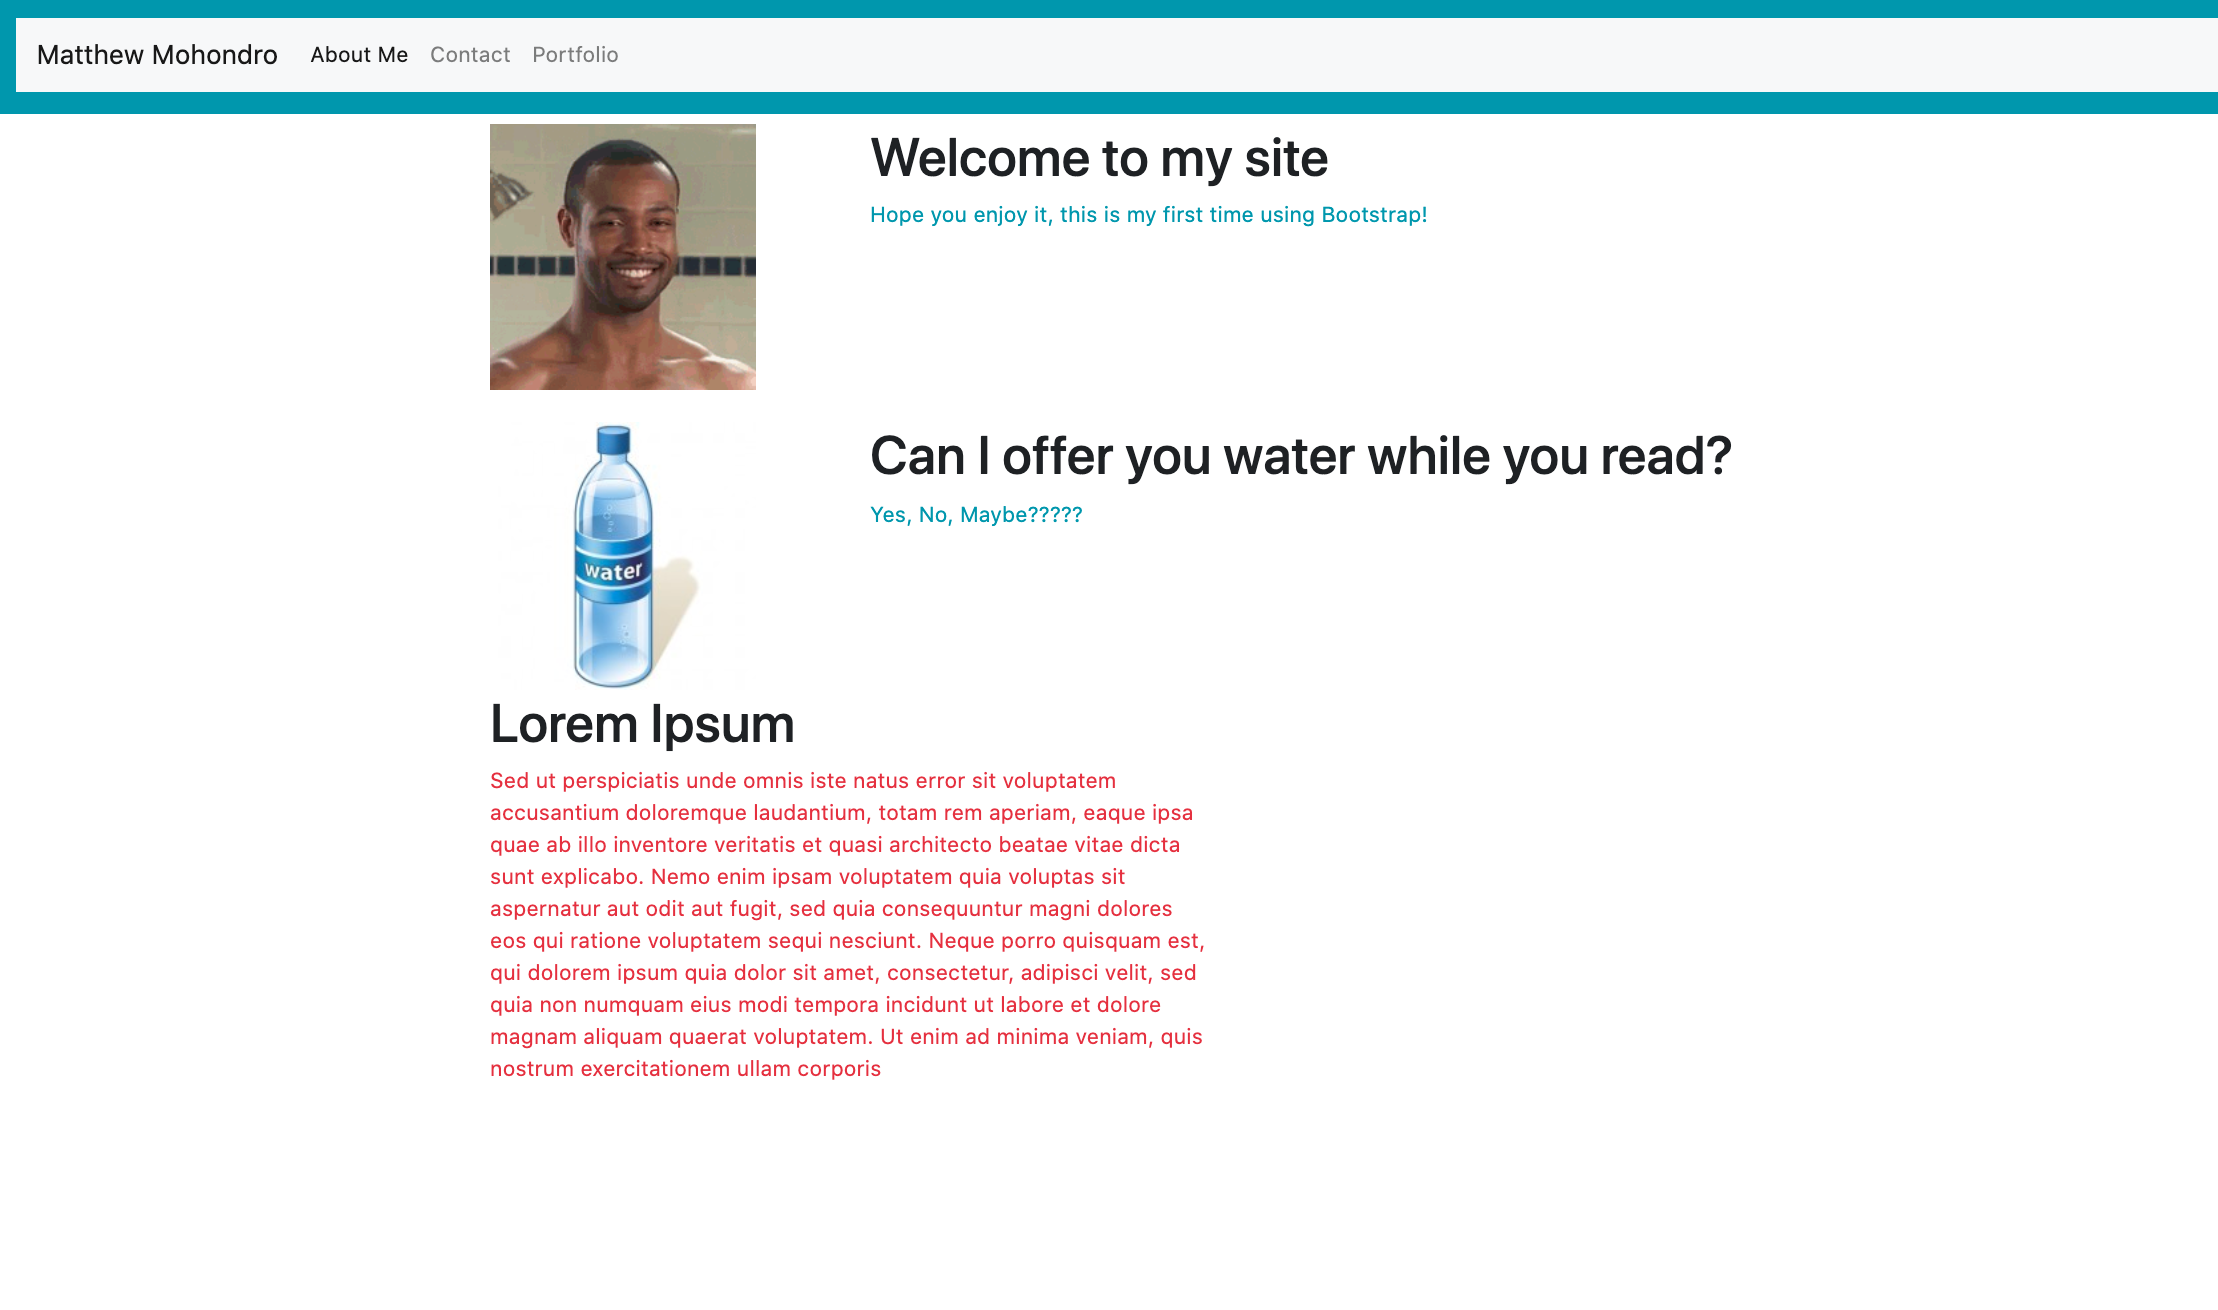
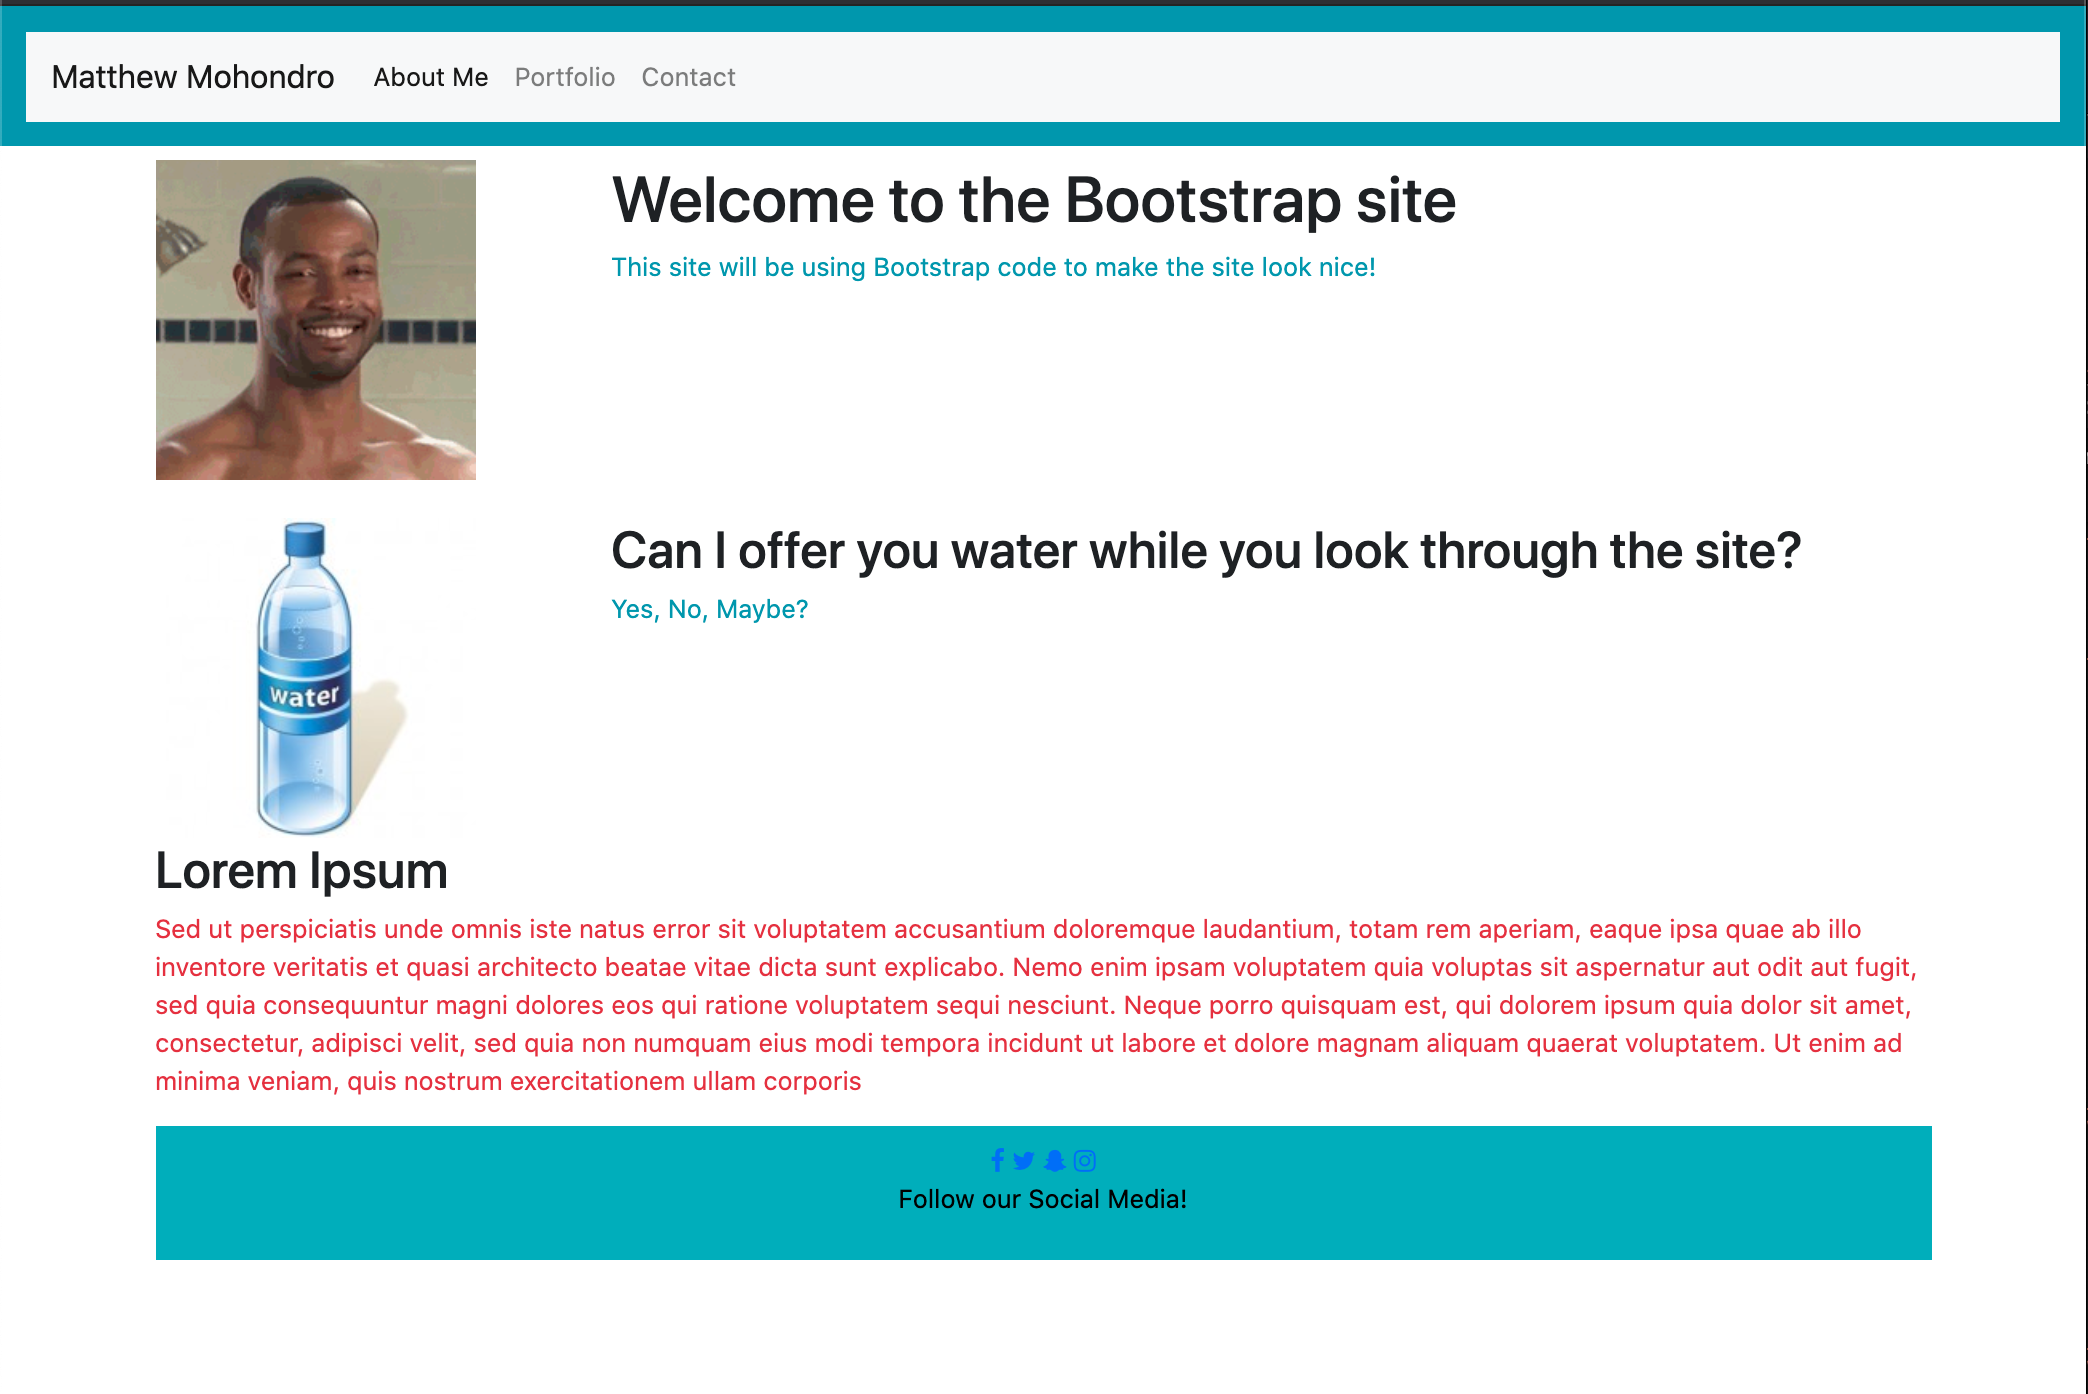
made some changes to files

Changed region(s): [[0.0, 0.0, 1.0, 1.0]]

diff --git a/contact.html b/contact.html
@@ -8,6 +8,8 @@
     <!-- Bootstrap CSS -->
     <link rel="stylesheet" href="https://stackpath.bootstrapcdn.com/bootstrap/4.5.0/css/bootstrap.min.css" integrity="sha384-9aIt2nRpC12Uk9gS9baDl411NQApFmC26EwAOH8WgZl5MYYxFfc+NcPb1dKGj7Sk" crossorigin="anonymous">
 
+    <link rel="stylesheet" href="https://stackpath.bootstrapcdn.com/font-awesome/4.7.0/css/font-awesome.min.css">
+
     <title>Bootstrap</title>
   </head>
   <body>
@@ -23,20 +25,15 @@
               <a class="nav-link" href="index.html">About Me <span class="sr-only">(current)</span></a>
             </li>
             <li class="nav-item">
-              <a class="nav-link" href="contact.html">Contact</a>
+              <a class="nav-link" href="portfolio.html" tabindex="-1" aria-disabled="true">Portfolio</a>
             </li>
             <li class="nav-item">
-              <a class="nav-link" href="portfolio.html" tabindex="-1" aria-disabled="true">Portfolio</a>
+                <a class="nav-link" href="contact.html">Contact</a>
             </li>
         </div>
     </div>
       </nav>
 
-    <!-- Optional JavaScript -->
-    <!-- jQuery first, then Popper.js, then Bootstrap JS -->
-    <script src="https://code.jquery.com/jquery-3.5.1.slim.min.js" integrity="sha384-DfXdz2htPH0lsSSs5nCTpuj/zy4C+OGpamoFVy38MVBnE+IbbVYUew+OrCXaRkfj" crossorigin="anonymous"></script>
-    <script src="https://cdn.jsdelivr.net/npm/popper.js@1.16.0/dist/umd/popper.min.js" integrity="sha384-Q6E9RHvbIyZFJoft+2mJbHaEWldlvI9IOYy5n3zV9zzTtmI3UksdQRVvoxMfooAo" crossorigin="anonymous"></script>
-    <script src="https://stackpath.bootstrapcdn.com/bootstrap/4.5.0/js/bootstrap.min.js" integrity="sha384-OgVRvuATP1z7JjHLkuOU7Xw704+h835Lr+6QL9UvYjZE3Ipu6Tp75j7Bh/kR0JKI" crossorigin="anonymous"></script>
     <div class="container">
     <div class="text-center"> <img src="https://media1.giphy.com/media/3o84sDfCF4mZR7aFYk/giphy.gif" class="rounded" alt="Ask for help" >
         </div>
@@ -45,7 +42,7 @@
         <!--Section heading-->
         <h2 class="h1-responsive font-weight-bold text-center my-4">Contact Us</h2>
         <!--Section description-->
-        <p class="text-center w-responsive mx-auto mb-5">Do you have any questions? Please do not hesitate to contact us directly.</p>
+        <p class="text-center w-responsive mx-auto mb-5">Do you have any questions? Please contact us so we can help you along the way if you do.</p>
         <div class="container">
         <div class="row">
     
@@ -115,15 +112,15 @@
             <!--Grid column-->
             <div class="col-md-3 text-center">
                 <ul class="list-unstyled mb-0">
-                    <li><i class="fas fa-map-marker-alt fa-2x"></i>
+                    <li><i class="fa fa-home mt-4 fa-2x"></i>
                         <p>Austin, TX 78749, USA</p>
                     </li>
     
-                    <li><i class="fas fa-phone mt-4 fa-2x"></i>
+                    <li><i class="fa fa-phone mt-4 fa-2x"></i>
                         <p>+8675309</p>
                     </li>
     
-                    <li><i class="fas fa-envelope mt-4 fa-2x"></i>
+                    <li><i class="fa fa-envelope mt-4 fa-2x"></i>
                         <p>contact@email.com</p>
                     </li>
                 </ul>
@@ -133,6 +130,29 @@
         </div>
     
     </section>
-
+ <!--Footer-->   
+    <footer>
+        <div class = "container">
+        <a href="#" onclick = "return false;" class="fa fa-facebook"></a>
+        <a href="#"  onclick = "return false;" class="fa fa-twitter"></a>
+        <a href="#" onclick = "return false;" class="fa fa-snapchat-ghost"></a>
+        <a href="#" onclick = "return false;" class="fa fa-instagram"></a>
+        <br>
+        <p>Follow our Social Media!</p>
+      </div>
+      </footer>
+  <style>
+    footer {
+      background-color: rgb(213, 52, 52);
+      padding: 10px;
+      text-align: center;
+      color: black;
+    }
+  </style>
+  <!-- Optional JavaScript -->
+    <!-- jQuery first, then Popper.js, then Bootstrap JS -->
+    <script src="https://code.jquery.com/jquery-3.5.1.slim.min.js" integrity="sha384-DfXdz2htPH0lsSSs5nCTpuj/zy4C+OGpamoFVy38MVBnE+IbbVYUew+OrCXaRkfj" crossorigin="anonymous"></script>
+    <script src="https://cdn.jsdelivr.net/npm/popper.js@1.16.0/dist/umd/popper.min.js" integrity="sha384-Q6E9RHvbIyZFJoft+2mJbHaEWldlvI9IOYy5n3zV9zzTtmI3UksdQRVvoxMfooAo" crossorigin="anonymous"></script>
+    <script src="https://stackpath.bootstrapcdn.com/bootstrap/4.5.0/js/bootstrap.min.js" integrity="sha384-OgVRvuATP1z7JjHLkuOU7Xw704+h835Lr+6QL9UvYjZE3Ipu6Tp75j7Bh/kR0JKI" crossorigin="anonymous"></script>
 </body>
 </html>

diff --git a/index.html b/index.html
@@ -8,6 +8,8 @@
     <!-- Bootstrap CSS -->
     <link rel="stylesheet" href="https://stackpath.bootstrapcdn.com/bootstrap/4.5.0/css/bootstrap.min.css" integrity="sha384-9aIt2nRpC12Uk9gS9baDl411NQApFmC26EwAOH8WgZl5MYYxFfc+NcPb1dKGj7Sk" crossorigin="anonymous">
 
+   <link rel="stylesheet" href="https://stackpath.bootstrapcdn.com/font-awesome/4.7.0/css/font-awesome.min.css">
+   
     <title>Bootstrap!</title>
   </head>
   <body>
@@ -23,15 +25,16 @@
               <a class="nav-link" href="index.html">About Me <span class="sr-only">(current)</span></a>
             </li>
             <li class="nav-item">
-              <a class="nav-link" href="contact.html">Contact</a>
+              <a class="nav-link" href="portfolio.html" tabindex="-1" aria-disabled="true">Portfolio</a>
             </li>
             <li class="nav-item">
-              <a class="nav-link" href="portfolio.html" tabindex="-1" aria-disabled="true">Portfolio</a>
+              <a class="nav-link" href="contact.html">Contact</a>
             </li>
           </div>
         </div>
       </nav>
     <div class="container">
+    <!--Row 1-->  
       <div class="row">
         <div class="col-lg-3">
           <img class="img img-thumbnail_1" src="https://media.giphy.com/media/I0S6UHHDXQx8s/giphy.gif" alt="welcome person"> 
@@ -42,22 +45,42 @@
         </div>
       </div>
       <br>
+    <!--Row 2-->  
         <div class="row">
           <div class="col-sm-3 col-md-3 col-lg-3">
             <img class="img img-thumbnail_2" src="https://salampizza.com/media/catalog/product/cache/1/small_image/200x200/9df78eab33525d08d6e5fb8d27136e95/w/a/water-bottle.jpg" alt="water-bottle">
           </div>
         <div class="col-sm-9 col-md-9 col-lg-9">
-          <h1>Can I offer you water while you look through the site?</h1> 
+          <h2>Can I offer you water while you look through the site?</h2> 
           <p class="text-info">Yes, No, Maybe?</p>
         </div>
       </div>
+    <!--Row 3-->
         <div class="row">
-        <div class="col-sm-6 col-md-6 col-lg-6">
-          <h1>Lorem Ipsum</h1>
+        <div class="col-sm-12 col-md-12 col-lg-12">
+          <h2>Lorem Ipsum</h2>
           <p class="text-danger">Sed ut perspiciatis unde omnis iste natus error sit voluptatem accusantium doloremque laudantium, totam rem aperiam, eaque ipsa quae ab illo inventore veritatis et quasi architecto beatae vitae dicta sunt explicabo. Nemo enim ipsam voluptatem quia voluptas sit aspernatur aut odit aut fugit, sed quia consequuntur magni dolores eos qui ratione voluptatem sequi nesciunt. Neque porro quisquam est, qui dolorem ipsum quia dolor sit amet, consectetur, adipisci velit, sed quia non numquam eius modi tempora incidunt ut labore et dolore magnam aliquam quaerat voluptatem. Ut enim ad minima veniam, quis nostrum exercitationem ullam corporis</p>
       </div>
     </div>
 
+    <footer>
+      <div class = "container">
+      <a href="#" onclick = "return false;" class="fa fa-facebook"></a>
+      <a href="#"  onclick = "return false;" class="fa fa-twitter"></a>
+      <a href="#" onclick = "return false;" class="fa fa-snapchat-ghost"></a>
+      <a href="#" onclick = "return false;" class="fa fa-instagram"></a>
+      <br>
+      <p>Follow our Social Media!</p>
+    </div>
+    </footer>
+<style>
+  footer {
+    background-color: rgb(61, 183, 196);
+    padding: 10px;
+    text-align: center;
+    color: black;
+  }
+</style>
 
     <!-- Optional JavaScript -->
     <!-- jQuery first, then Popper.js, then Bootstrap JS -->

diff --git a/portfolio.html b/portfolio.html
@@ -8,6 +8,8 @@
     <!-- Bootstrap CSS -->
     <link rel="stylesheet" href="https://stackpath.bootstrapcdn.com/bootstrap/4.5.0/css/bootstrap.min.css" integrity="sha384-9aIt2nRpC12Uk9gS9baDl411NQApFmC26EwAOH8WgZl5MYYxFfc+NcPb1dKGj7Sk" crossorigin="anonymous">
 
+    <link rel="stylesheet" href="https://stackpath.bootstrapcdn.com/font-awesome/4.7.0/css/font-awesome.min.css">
+
     <title>Bootstrap!</title>
   </head>
   <body>
@@ -23,24 +25,16 @@
               <a class="nav-link" href="index.html">About Me <span class="sr-only">(current)</span></a>
             </li>
             <li class="nav-item">
-              <a class="nav-link" href="contact.html">Contact</a>
+              <a class="nav-link" href="portfolio.html" tabindex="-1" aria-disabled="true">Portfolio</a>
             </li>
             <li class="nav-item">
-              <a class="nav-link" href="portfolio.html" tabindex="-1" aria-disabled="true">Portfolio</a>
+              <a class="nav-link" href="contact.html">Contact</a>
             </li>
         </div>
       </div>
       </nav>
     <h1 class="h1-responsive font-weight-bold text-center my-4">Portfolio</h1>
-
-    <!-- Optional JavaScript -->
-    <!-- jQuery first, then Popper.js, then Bootstrap JS -->
-    <div class="container">
-    <script src="https://code.jquery.com/jquery-3.5.1.slim.min.js" integrity="sha384-DfXdz2htPH0lsSSs5nCTpuj/zy4C+OGpamoFVy38MVBnE+IbbVYUew+OrCXaRkfj" crossorigin="anonymous"></script>
-    <script src="https://cdn.jsdelivr.net/npm/popper.js@1.16.0/dist/umd/popper.min.js" integrity="sha384-Q6E9RHvbIyZFJoft+2mJbHaEWldlvI9IOYy5n3zV9zzTtmI3UksdQRVvoxMfooAo" crossorigin="anonymous"></script>
-    <script src="https://stackpath.bootstrapcdn.com/bootstrap/4.5.0/js/bootstrap.min.js" integrity="sha384-OgVRvuATP1z7JjHLkuOU7Xw704+h835Lr+6QL9UvYjZE3Ipu6Tp75j7Bh/kR0JKI" crossorigin="anonymous"></script>
-  </body>
-  
+  <div class="container">
   <div id="carouselExampleCaptions" class="carousel slide" data-ride="carousel">
     <ol class="carousel-indicators">
       <li data-target="#carouselExampleCaptions" data-slide-to="0" class="active"></li>
@@ -119,5 +113,29 @@
   </div>
 </div>
 <br>
-<br>
+ <!--Footer-->   
+ <footer>
+      <div class = "container">
+      <a href="#" onclick = "return false;" class="fa fa-facebook"></a>
+      <a href="#"  onclick = "return false;" class="fa fa-twitter"></a>
+      <a href="#" onclick = "return false;" class="fa fa-snapchat-ghost"></a>
+      <a href="#" onclick = "return false;" class="fa fa-instagram"></a>
+      <br>
+      <p>Follow our Social Media!</p>
+    </div>
+</footer>
+<style>
+  footer {
+    background-color: rgb(63, 208, 34);
+    padding: 10px;
+    text-align: center;
+    color: black;
+        }
+</style>
+    <!-- Optional JavaScript -->
+    <!-- jQuery first, then Popper.js, then Bootstrap JS -->
+      <script src="https://code.jquery.com/jquery-3.5.1.slim.min.js" integrity="sha384-DfXdz2htPH0lsSSs5nCTpuj/zy4C+OGpamoFVy38MVBnE+IbbVYUew+OrCXaRkfj" crossorigin="anonymous"></script>
+      <script src="https://cdn.jsdelivr.net/npm/popper.js@1.16.0/dist/umd/popper.min.js" integrity="sha384-Q6E9RHvbIyZFJoft+2mJbHaEWldlvI9IOYy5n3zV9zzTtmI3UksdQRVvoxMfooAo" crossorigin="anonymous"></script>
+      <script src="https://stackpath.bootstrapcdn.com/bootstrap/4.5.0/js/bootstrap.min.js" integrity="sha384-OgVRvuATP1z7JjHLkuOU7Xw704+h835Lr+6QL9UvYjZE3Ipu6Tp75j7Bh/kR0JKI" crossorigin="anonymous"></script>
+    </body>
 </html>
